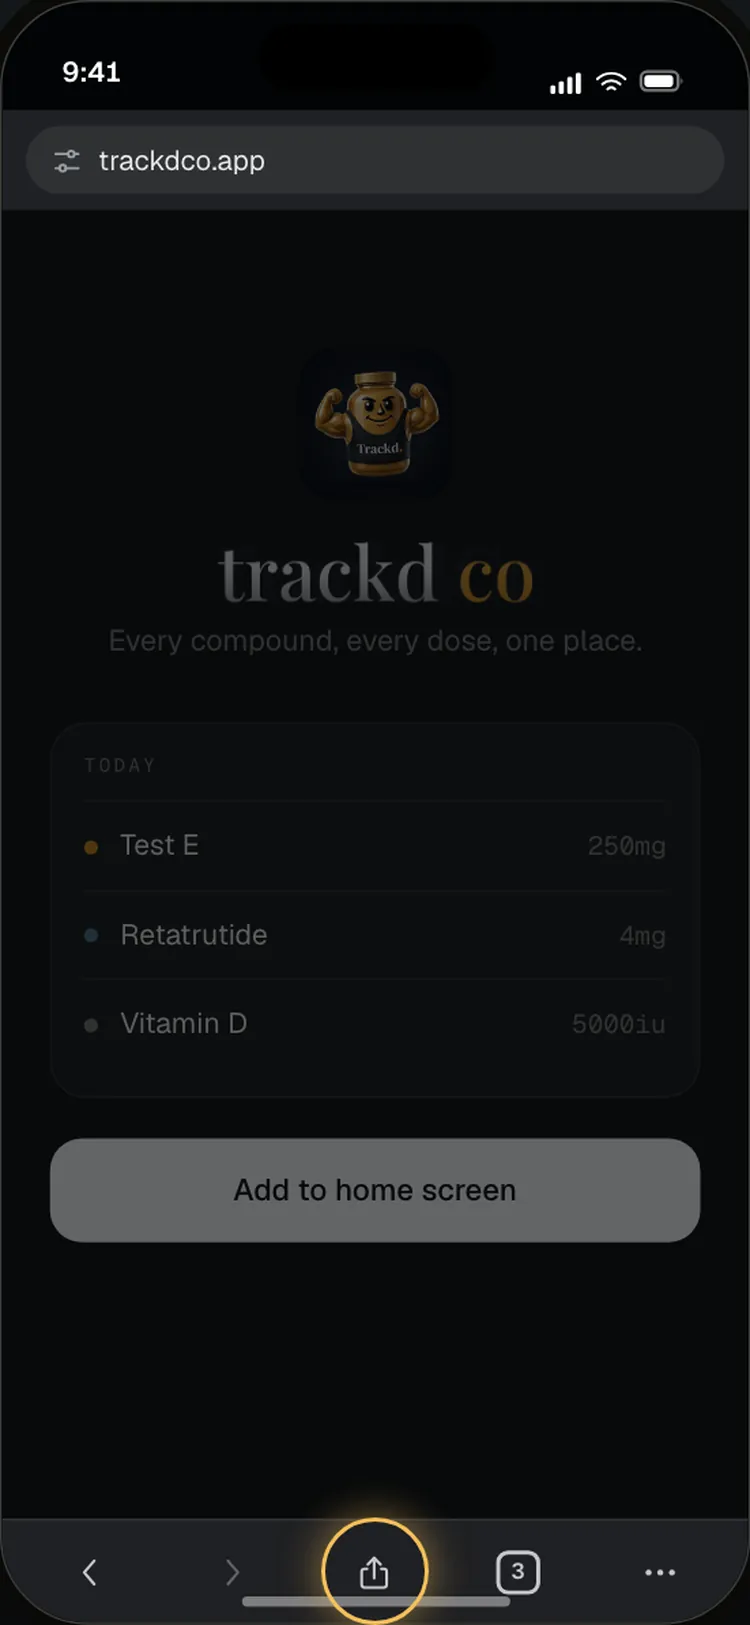
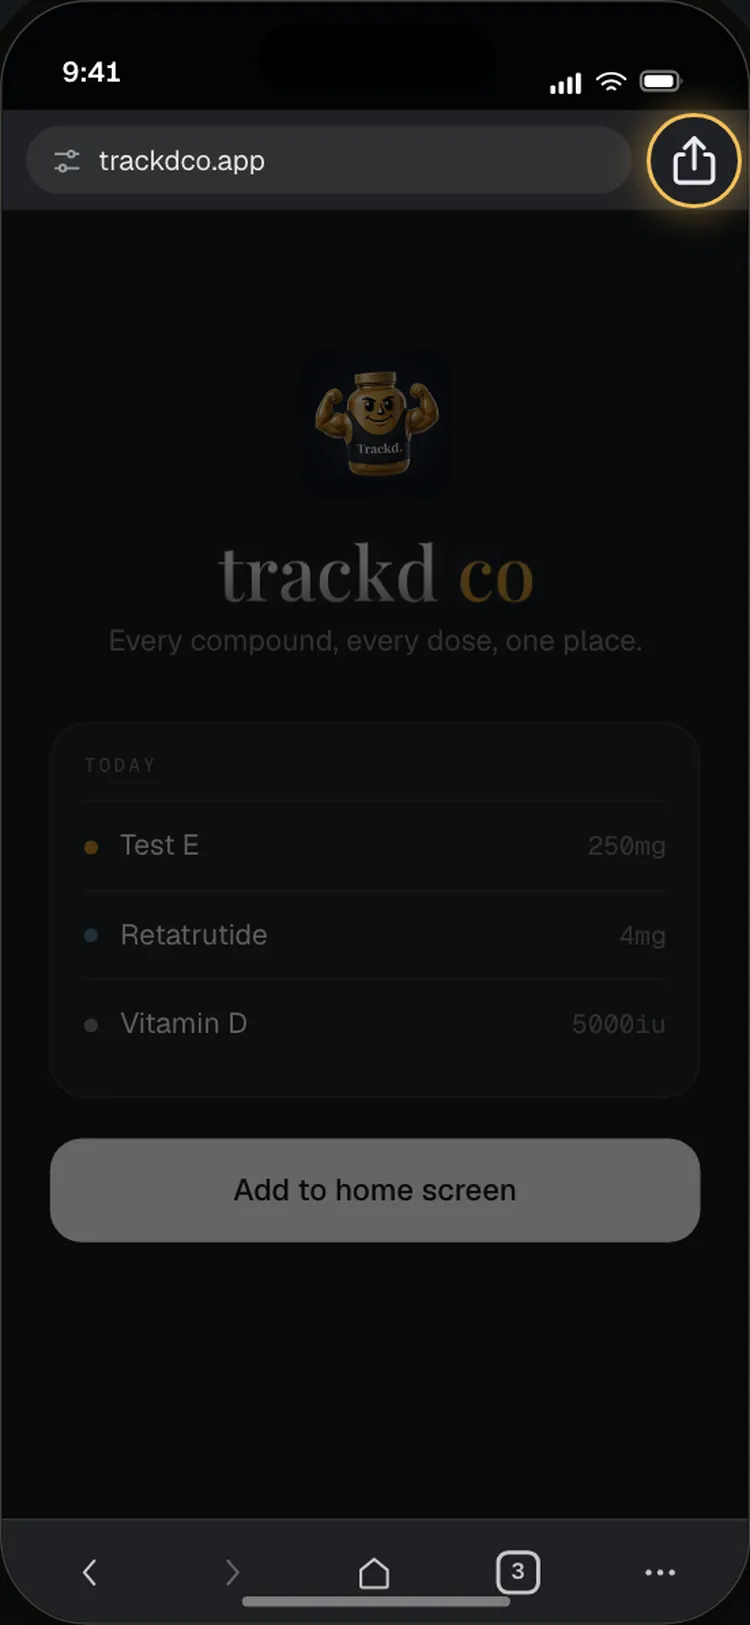
Chrome's Share is at the top right, not the bottom
Drawn from the wrong toolbar. Adrian, on his own handset: "The Share is at the
top for me, top right corner." A reference picture pointing at a control that
is somewhere else on the real screen is worse than no picture, because it is
confidently wrong.

Closing caption reworded too: "Safari opens on the same page. The rest is done
there" — the old line promised "still signed in", which is only true if Safari
already had a session.

Changed region(s): [[0.3987, 0.9231, 0.5827, 1.0], [0.8587, 0.0615, 1.0, 0.1538]]

diff --git a/lib/onboarding/platform.ts b/lib/onboarding/platform.ts
@@ -210,9 +210,9 @@ export interface WalkthroughStep {
  */
 export const INSTALL_WALKTHROUGH: Record<InstallFlowId, WalkthroughStep[]> = {
   "ios-chrome": [
-    { text: "Tap Share at the bottom of Chrome", strong: "Share" },
+    { text: "Tap Share at the top right of Chrome", strong: "Share" },
     { text: "Tap Open in Safari", strong: "Open in Safari" },
-    { text: "Safari opens on the same page, still signed in" },
+    { text: "Safari opens on the same page. The rest is done there" },
   ],
   "ios-safari": [
     { text: "Tap ⋯ at the right-hand end of the address bar", strong: "⋯" },
